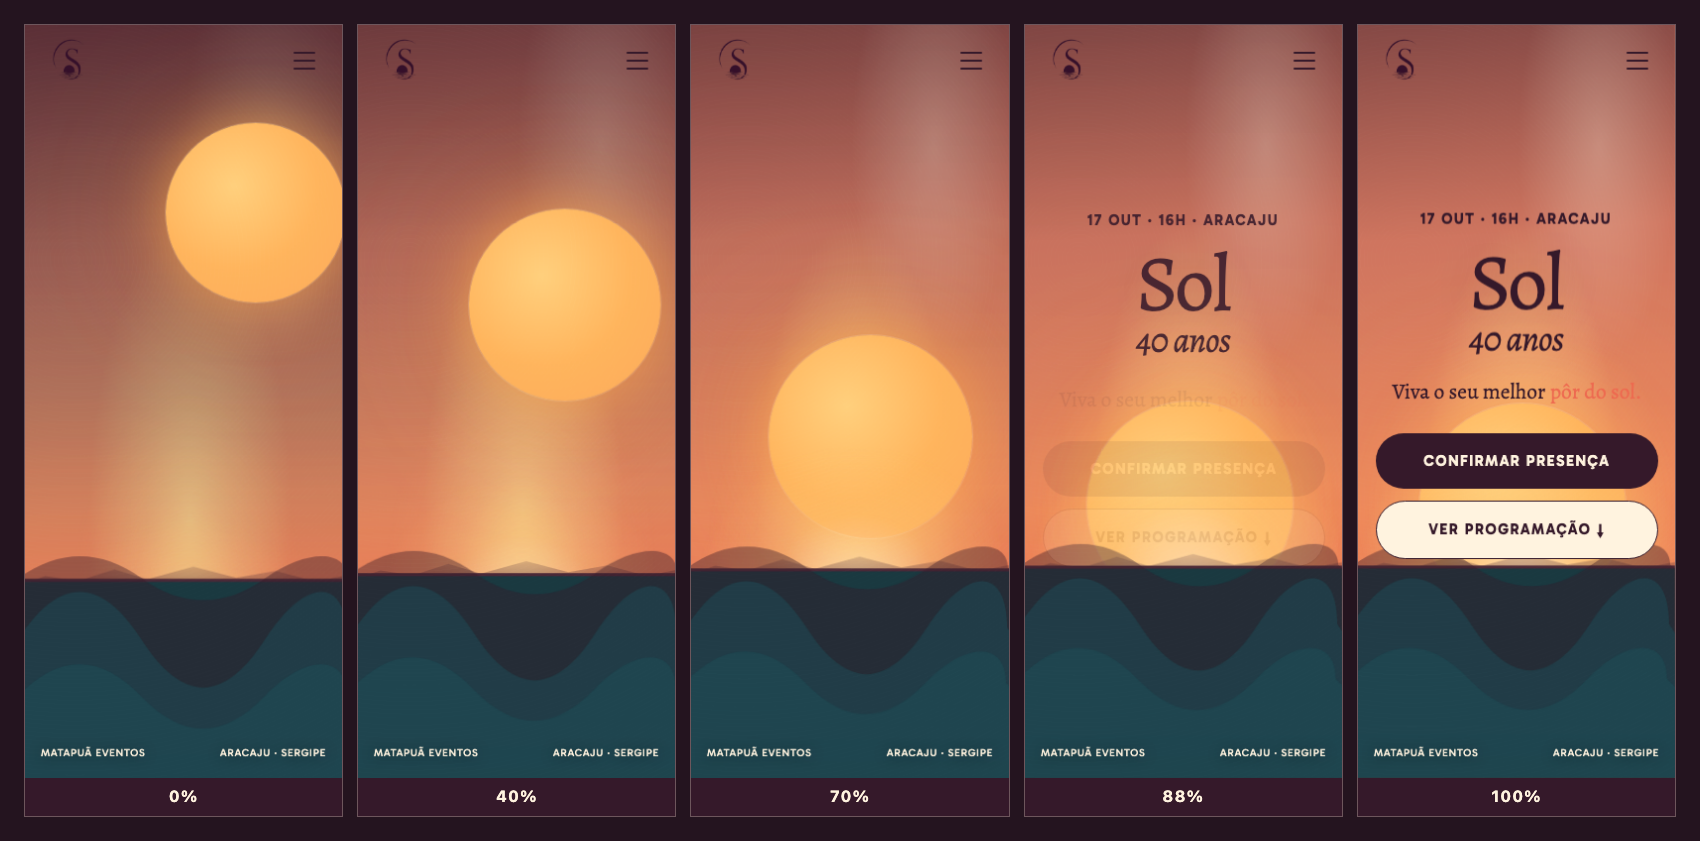
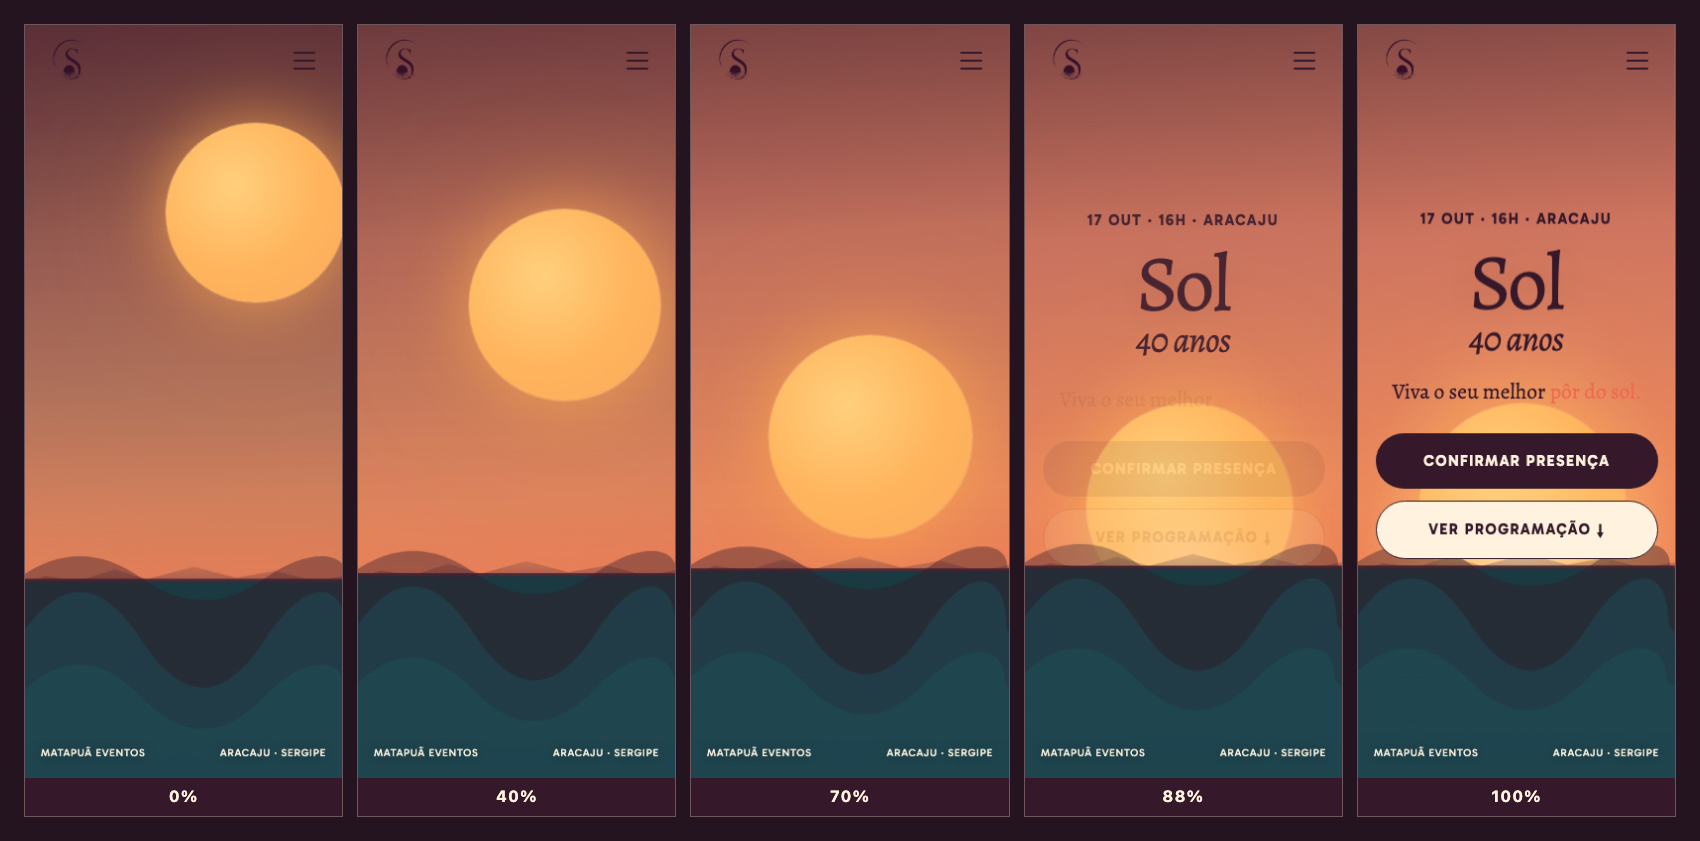
fix(10-01): reveal ambient glow after sun settles
Remove the static target halo from the base sky, settle the canonical sun before the horizon glow begins, and lock the ordering with deterministic visual assertions and refreshed evidence.

diff --git a/tests/cinematic-intro-visual.spec.ts b/tests/cinematic-intro-visual.spec.ts
@@ -317,10 +317,24 @@ test('storyboard tracks are finite, semantic and transform-opacity only', async 
   }
 
   const sunContract = contract.find(({ track }) => track === 'sun-arc')
-  expect(sunContract?.keyframes).toHaveLength(4)
+  expect(sunContract?.keyframes).toHaveLength(5)
   expect(String(sunContract?.keyframes[0]?.transform)).toMatch(
     /translate3d\([^,]+px,\s*-[^,]+px/,
   )
+  expect(sunContract?.keyframes.at(-2)?.offset).toBe(0.82)
+  expect(sunContract?.keyframes.at(-2)?.transform).toBe('none')
+
+  for (const glowTrack of ['warm-horizon', 'haze']) {
+    const glowContract = contract.find(({ track }) => track === glowTrack)
+    expect(glowContract?.keyframes.map(({ offset }) => offset)).toEqual([
+      0,
+      0.83,
+      0.88,
+      1,
+    ])
+    expect(Number(glowContract?.keyframes[0]?.opacity)).toBe(0)
+    expect(Number(glowContract?.keyframes[1]?.opacity)).toBe(0)
+  }
 })
 
 test('copy groups unlock at their own visible onset without blocking chrome', async ({
@@ -605,6 +619,58 @@ test('generates deterministic desktop and mobile cinematic contact sheets', asyn
     'none',
   )
   await expectNoDocumentOverflow(page)
+
+  const warmHorizon = page.locator('[data-intro-layer="warm-horizon"]')
+  const haze = page.locator('[data-intro-layer="haze-horizon"]')
+  for (const preArrivalProgress of [0, 0.4, 0.7]) {
+    await seekIntro(page, preArrivalProgress)
+    await expect(warmHorizon).toHaveCSS('opacity', '0')
+    await expect(haze).toHaveCSS('opacity', '0')
+  }
+
+  await seekIntro(page, 0.82)
+  await expect(warmHorizon).toHaveCSS('opacity', '0')
+  await expect(haze).toHaveCSS('opacity', '0')
+
+  const settledGeometry = await page.evaluate(() => {
+    const target = document.querySelector<HTMLElement>(
+      '[data-intro-sun-target]',
+    )
+    const sun = document.querySelector<HTMLElement>('[data-intro-sun]')
+    if (!target || !sun) throw new Error('Canonical sun geometry is absent')
+    const targetRect = target.getBoundingClientRect()
+    const sunRect = sun.getBoundingClientRect()
+    return {
+      centerDeltaX: Math.abs(
+        targetRect.left + targetRect.width / 2 -
+          (sunRect.left + sunRect.width / 2),
+      ),
+      centerDeltaY: Math.abs(
+        targetRect.top + targetRect.height / 2 -
+          (sunRect.top + sunRect.height / 2),
+      ),
+      sizeDelta: Math.abs(targetRect.width - sunRect.width),
+    }
+  })
+  expect(settledGeometry.centerDeltaX).toBeLessThanOrEqual(1)
+  expect(settledGeometry.centerDeltaY).toBeLessThanOrEqual(1)
+  expect(settledGeometry.sizeDelta).toBeLessThanOrEqual(1)
+
+  await seekIntro(page, 0.88)
+  await expect
+    .poll(() =>
+      warmHorizon.evaluate((element) =>
+        Number.parseFloat(getComputedStyle(element).opacity),
+      ),
+    )
+    .toBeGreaterThan(0)
+  await expect
+    .poll(() =>
+      haze.evaluate((element) =>
+        Number.parseFloat(getComputedStyle(element).opacity),
+      ),
+    )
+    .toBeGreaterThan(0)
 
   await seekIntro(page, 1)
   const geometry = await page.evaluate(() => {

diff --git a/src/components/invite/Hero.tsx b/src/components/invite/Hero.tsx
@@ -17,6 +17,8 @@ export type HeroProps = {
 
 const PRIMARY_COPY_ONSET = 0.76
 const SECONDARY_COPY_ONSET = 0.88
+const SUN_SETTLE_OFFSET = 0.82
+const AMBIENT_GLOW_ONSET = 0.83
 
 /**
  * O hero é o próprio plano-sequência: todas as camadas existem do primeiro
@@ -147,8 +149,13 @@ export function Hero({
         {
           track: 'warm-horizon',
           keyframes: [
-            { offset: 0, opacity: 0.28, transform: 'scale3d(.72, .72, 1)' },
-            { offset: 0.68, opacity: 0.78, transform: 'scale3d(.94, .9, 1)' },
+            { offset: 0, opacity: 0, transform: 'scale3d(.72, .72, 1)' },
+            {
+              offset: AMBIENT_GLOW_ONSET,
+              opacity: 0,
+              transform: 'scale3d(.82, .78, 1)',
+            },
+            { offset: 0.88, opacity: 0.58, transform: 'scale3d(.95, .92, 1)' },
             { offset: 1, opacity: 1, transform: 'none' },
           ],
         },
@@ -170,14 +177,20 @@ export function Hero({
               transform: `translate3d(${approachX}px, ${approachY}px, 0) scale(.975)`,
               easing: 'cubic-bezier(.16,.76,.16,1)',
             },
+            { offset: SUN_SETTLE_OFFSET, transform: 'none' },
             { offset: 1, transform: 'none' },
           ],
         },
         {
           track: 'haze',
           keyframes: [
-            { offset: 0, opacity: 0.2, transform: 'scale3d(.72, .62, 1)' },
-            { offset: 0.7, opacity: 0.72, transform: 'scale3d(.94, .9, 1)' },
+            { offset: 0, opacity: 0, transform: 'scale3d(.72, .62, 1)' },
+            {
+              offset: AMBIENT_GLOW_ONSET,
+              opacity: 0,
+              transform: 'scale3d(.82, .74, 1)',
+            },
+            { offset: 0.88, opacity: 0.54, transform: 'scale3d(.95, .9, 1)' },
             { offset: 1, opacity: 1, transform: 'none' },
           ],
         },

diff --git a/src/index.css b/src/index.css
@@ -139,25 +139,13 @@ body {
 }
 
 .cinematic-sky-base {
-  background:
-    radial-gradient(
-      ellipse at 76% 16%,
-      color-mix(in srgb, var(--color-cream) 28%, transparent) 0,
-      transparent 24%
-    ),
-    radial-gradient(
-      ellipse at var(--intro-sun-x) var(--intro-sun-y),
-      var(--color-sky-halo) 0,
-      color-mix(in srgb, var(--color-sky-halo) 52%, transparent) 18%,
-      transparent 42%
-    ),
-    linear-gradient(
-      176deg,
-      color-mix(in srgb, var(--color-plum) 48%, var(--color-sky-dusk)) 0%,
-      var(--color-sky-dusk) 28%,
-      var(--color-sky-apricot) 62%,
-      var(--color-sky-coral) 100%
-    );
+  background: linear-gradient(
+    176deg,
+    color-mix(in srgb, var(--color-plum) 48%, var(--color-sky-dusk)) 0%,
+    var(--color-sky-dusk) 28%,
+    var(--color-sky-apricot) 62%,
+    var(--color-sky-coral) 100%
+  );
 }
 
 .cinematic-cool-veil {
